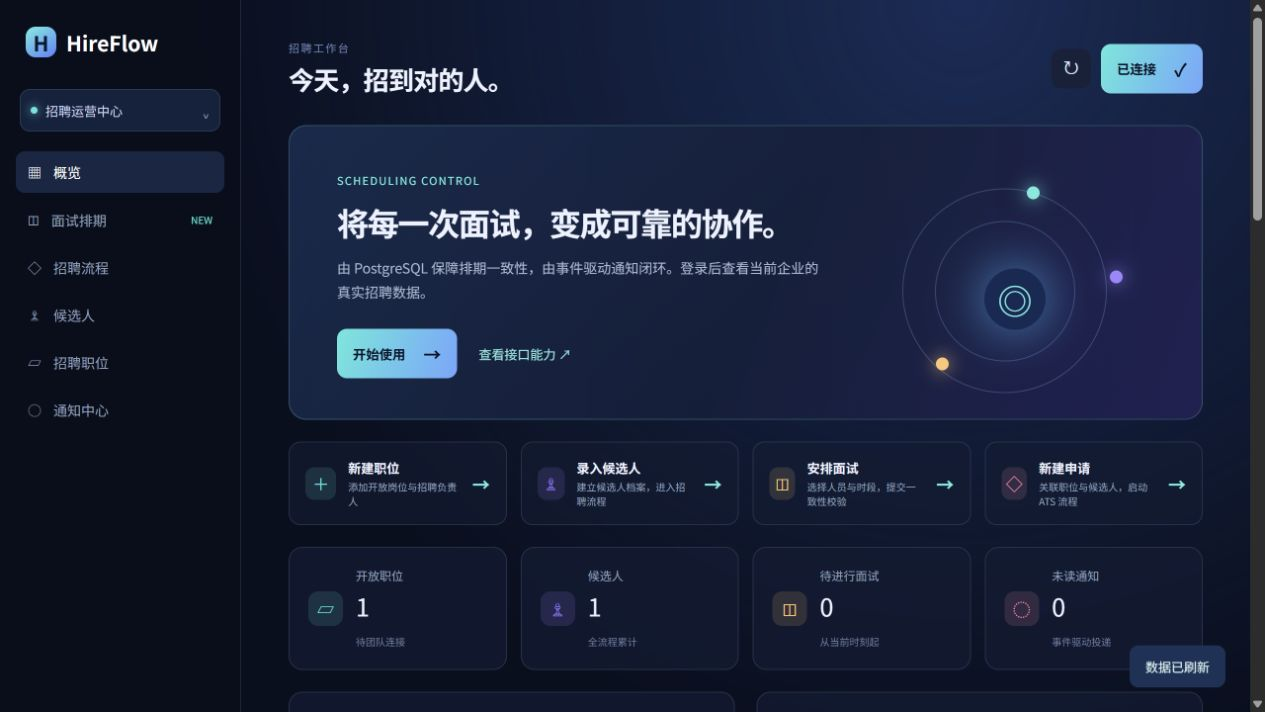
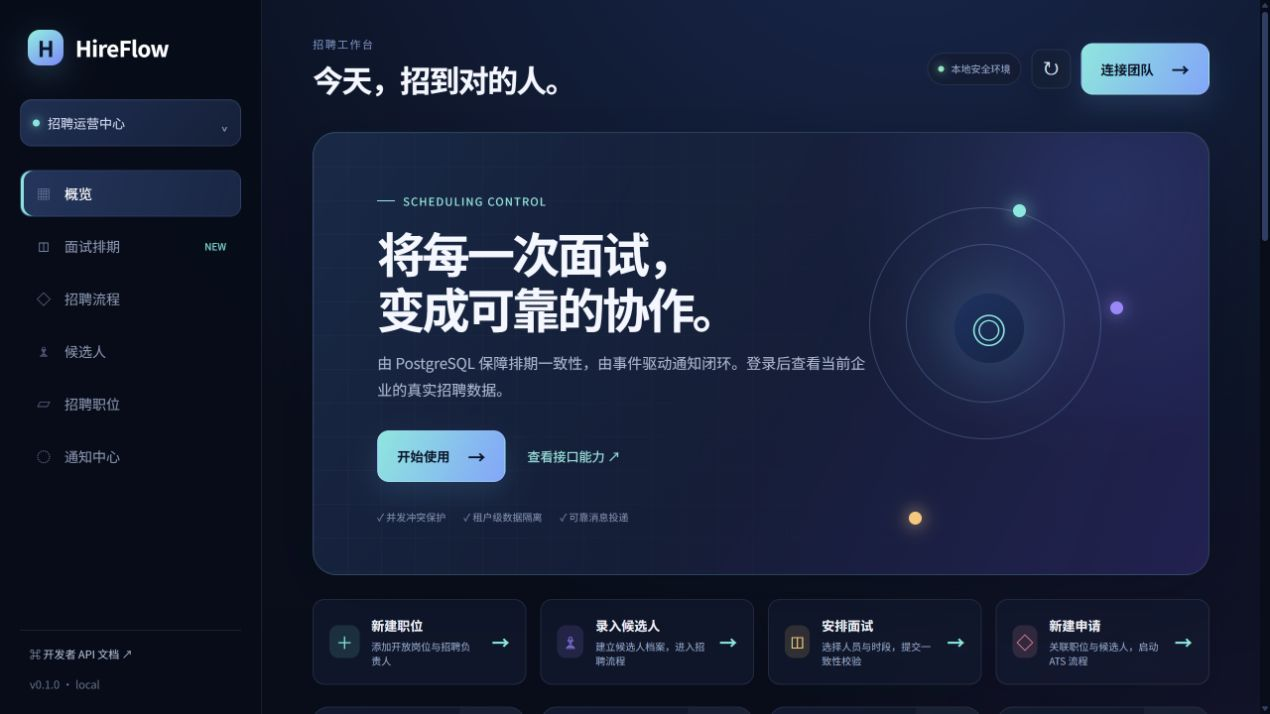
feat: refresh workbench visual design

diff --git a/src/hireflow/web/app.css b/src/hireflow/web/app.css
@@ -1,2 +1,58 @@
 @import url('https://fonts.googleapis.com/css2?family=DM+Mono:wght@400;500&family=Noto+Sans+SC:wght@400;500;600;700&display=swap');
 :root{--ink:#edf2ff;--muted:#92a0bf;--line:rgba(151,170,213,.16);--canvas:#090f1f;--panel:#101a31;--panel-2:#0d1629;--cyan:#45e5dc;--violet:#9d82ff;--amber:#ffc56e;--rose:#ff93ad}*{box-sizing:border-box}body{margin:0;background:var(--canvas);color:var(--ink);font-family:"Noto Sans SC",system-ui,sans-serif}.app-shell{display:flex;min-height:100vh;background:radial-gradient(circle at 77% 0%,#172c58 0,transparent 30%),var(--canvas)}.sidebar{width:244px;padding:27px 16px 20px;border-right:1px solid var(--line);display:flex;flex-direction:column;background:rgba(8,14,28,.72)}.brand{display:flex;align-items:center;gap:10px;color:#fff;text-decoration:none;font-size:21px;font-weight:700;padding:0 10px 32px}.brand-mark{display:grid;place-items:center;width:31px;height:31px;background:linear-gradient(145deg,#65efe1,#5d80ff);color:#0a1530;border-radius:10px;font-family:"DM Mono"}.workspace{display:flex;align-items:center;gap:8px;margin:0 4px 20px;padding:11px 10px;background:#13213d;border:1px solid var(--line);border-radius:10px;color:#c8d4ee;font-size:13px}.pulse{width:7px;height:7px;background:var(--cyan);border-radius:50%;box-shadow:0 0 10px var(--cyan)}.chevron{margin-left:auto;color:var(--muted)}nav{display:grid;gap:6px}.nav-item{display:flex;align-items:center;gap:12px;padding:11px 12px;color:#91a0bf;text-decoration:none;border-radius:9px;font-size:14px}.nav-item:hover,.nav-item.active{color:#fff;background:#172644}.nav-item b{margin-left:auto;font:10px "DM Mono";color:#63ebdf}.sidebar-foot{margin-top:auto;display:grid;gap:14px;padding:15px 10px 0;color:#667492;font-size:11px;border-top:1px solid var(--line)}.sidebar-foot a{color:#aab9d5;text-decoration:none}.main{width:min(1240px,calc(100% - 244px));padding:40px 48px 56px;margin:0 auto}.topbar{display:flex;align-items:center;justify-content:space-between;margin-bottom:28px}.eyebrow{margin:0 0 5px;font:11px "DM Mono";letter-spacing:.13em;color:#6f83ad}.topbar h1{font-size:26px;margin:0;letter-spacing:-.03em}.top-actions{display:flex;align-items:center;gap:10px}.icon-button,.primary-button{border:0;cursor:pointer}.icon-button{display:grid;place-items:center;width:40px;height:40px;border-radius:10px;background:#15213a;color:#dbe6fd;font-size:20px}.primary-button{display:inline-flex;align-items:center;justify-content:center;gap:18px;padding:12px 16px;border-radius:10px;background:linear-gradient(110deg,#54e9dc,#71a7ff);color:#08142a;font-weight:700;font-family:inherit}.primary-button span{font-size:18px}.hero-card{position:relative;overflow:hidden;display:flex;justify-content:space-between;min-height:268px;padding:41px 48px;margin-bottom:22px;border:1px solid rgba(101,230,223,.24);border-radius:18px;background:linear-gradient(120deg,#152a4c,#101a34 53%,#1a1745)}.hero-card:after{content:"";position:absolute;inset:0;background:linear-gradient(90deg,transparent,rgba(111,154,255,.08));pointer-events:none}.hero-copy{position:relative;z-index:1;max-width:580px}.tag{font:11px "DM Mono";letter-spacing:.12em;color:#63eee2}.hero-card h2{font-size:32px;line-height:1.25;letter-spacing:-.04em;margin:13px 0}.hero-card p{max-width:500px;color:#a9b7d2;line-height:1.75;font-size:14px}.hero-actions{display:flex;align-items:center;gap:22px;margin-top:25px}.text-link,.panel-link{color:#83e9df;text-decoration:none;font-size:13px}.orbit{position:relative;width:230px;margin-right:25px;flex:none}.orbit:before,.orbit:after{content:"";position:absolute;border:1px solid rgba(141,192,255,.25);border-radius:50%}.orbit:before{width:205px;height:205px;top:22px}.orbit:after{width:140px;height:140px;top:55px;left:33px}.orbit-core{position:absolute;z-index:1;top:103px;left:83px;width:62px;height:62px;display:grid;place-items:center;border-radius:50%;font-size:35px;color:#6cf0e5;background:#142a55;box-shadow:0 0 50px #3a91cc}.satellite{position:absolute;z-index:2;width:13px;height:13px;border-radius:50%;box-shadow:0 0 18px currentColor}.one{top:20px;left:126px;background:#69ebdf;color:#69ebdf}.two{top:105px;right:7px;background:#9f86ff;color:#9f86ff}.three{bottom:8px;left:34px;background:#ffc673;color:#ffc673}.metrics{display:grid;grid-template-columns:repeat(4,1fr);gap:14px;margin-bottom:22px}.metric-card,.panel{border:1px solid var(--line);background:rgba(17,27,51,.79);border-radius:14px}.metric-card{display:flex;gap:13px;align-items:center;padding:19px}.metric-icon{display:grid;place-items:center;width:35px;height:35px;border-radius:10px;font-size:18px}.cyan{background:rgba(67,229,220,.13);color:var(--cyan)}.violet{background:rgba(158,130,255,.14);color:var(--violet)}.amber{background:rgba(255,197,110,.14);color:var(--amber)}.rose{background:rgba(255,147,173,.14);color:var(--rose)}.metric-card p{margin:0;color:var(--muted);font-size:12px}.metric-card strong{display:block;font:25px "DM Mono";margin:4px 0}.metric-card small{color:#6e7d9d;font-size:10px}.content-grid{display:grid;grid-template-columns:1.45fr 1fr;gap:22px}.panel{padding:24px}.panel-head{display:flex;justify-content:space-between;align-items:flex-start;border-bottom:1px solid var(--line);padding-bottom:16px}.panel h3{margin:0;font-size:17px}.live-dot,.status-ok{font-size:11px;color:#72f0c4}.live-dot:before{content:"";display:inline-block;width:6px;height:6px;margin-right:5px;background:#72f0c4;border-radius:50%;box-shadow:0 0 8px #72f0c4}.empty-state{display:grid;place-items:center;min-height:200px;color:#7081a6;text-align:center}.empty-state span{font-size:30px}.empty-state p{font-size:13px}.interview-row{display:grid;grid-template-columns:72px 1fr auto;gap:14px;align-items:center;padding:17px 0;border-bottom:1px solid var(--line)}.interview-time{font:12px "DM Mono";color:#8feae2}.interview-main strong{font-size:14px}.interview-main p{font-size:12px;color:var(--muted);margin:4px 0 0}.status-pill{font-size:10px;padding:5px 8px;border-radius:20px;background:rgba(67,229,220,.12);color:#70eee4}.guard{display:grid;grid-template-columns:30px 1fr 20px;gap:10px;padding:17px 0;border-bottom:1px solid var(--line)}.guard-number{font:11px "DM Mono";color:#6e82ac}.guard strong{font-size:13px}.guard p{margin:5px 0 0;font-size:11px;color:var(--muted);line-height:1.5}.guard-check{color:#77efc3}.panel-link{display:block;margin-top:18px}dialog{border:0;padding:0;border-radius:18px;background:transparent;color:var(--ink)}dialog::backdrop{background:rgba(3,7,16,.74);backdrop-filter:blur(8px)}.auth-card{position:relative;width:min(470px,calc(100vw - 32px));padding:35px;background:#101b32;border:1px solid rgba(129,160,220,.3);border-radius:18px;box-shadow:0 30px 90px #020611}.auth-card h2{margin:5px 0 24px;font-size:24px}.close{position:absolute;right:15px;top:13px;border:0;background:transparent;color:#9aabc9;font-size:27px;cursor:pointer}.tabs{display:flex;gap:20px;border-bottom:1px solid var(--line);margin-bottom:20px}.tab{padding:10px 0;color:#8494b5;background:transparent;border:0;font:13px inherit;cursor:pointer}.tab.active{color:#7bece2;border-bottom:2px solid #7bece2}.form-view{display:grid;gap:14px}.hidden{display:none}label{display:grid;gap:7px;color:#b8c6e0;font-size:12px}input{width:100%;padding:12px;border:1px solid #2d3d5e;border-radius:8px;background:#0b1427;color:#eff5ff;font:14px inherit;outline:none}input:focus{border-color:#64e8de;box-shadow:0 0 0 3px rgba(84,233,220,.1)}.field-row{display:grid;grid-template-columns:1fr 1fr;gap:12px}.wide{width:100%;margin-top:5px}.form-hint{font-size:11px;line-height:1.5;color:#7687a7;margin:0}#error{display:none;margin-bottom:12px;padding:10px;border-radius:7px;color:#ffadb9;background:rgba(255,93,120,.1);font-size:12px}#toast{position:fixed;right:25px;bottom:25px;opacity:0;transform:translateY(8px);padding:12px 16px;border-radius:9px;background:#183358;color:#d9f7f3;font-size:13px;transition:.2s;pointer-events:none}#toast.show{opacity:1;transform:none}@media(max-width:900px){.sidebar{width:68px;padding:22px 9px}.brand{padding:0 9px 30px}.brand>span:last-child,.workspace span:not(.pulse),.nav-item{font-size:0}.nav-item{justify-content:center}.nav-item span{font-size:18px}.nav-item b,.sidebar-foot{display:none}.main{width:calc(100% - 68px);padding:28px 24px}.metrics{grid-template-columns:repeat(2,1fr)}.hero-card{padding:32px}.orbit{display:none}.content-grid{grid-template-columns:1fr}}@media(max-width:560px){.main{padding:24px 16px}.topbar h1{font-size:21px}.hero-card h2{font-size:25px}.hero-card{min-height:0;padding:27px}.metrics{grid-template-columns:1fr}.top-actions .icon-button{display:none}.content-grid{gap:14px}.field-row{grid-template-columns:1fr}}
+
+/* 2026 visual refresh: quieter surfaces, stronger hierarchy, and accessible motion. */
+:root{--ink:#f4f7ff;--muted:#9aa8c4;--line:rgba(145,166,211,.14);--canvas:#070d1a;--panel:#101a2d;--panel-2:#0b1425;--cyan:#69e7dc;--violet:#a58cff;--amber:#ffc873;--rose:#ff91ac;--shadow:0 18px 60px rgba(1,5,15,.22)}
+html{scroll-behavior:smooth;color-scheme:dark}
+body{min-width:320px;line-height:1.5;background:var(--canvas);font-family:"Noto Sans SC","PingFang SC","Microsoft YaHei",system-ui,sans-serif;-webkit-font-smoothing:antialiased}
+button,a,input,select,textarea{transition:border-color .2s ease,background .2s ease,color .2s ease,box-shadow .2s ease,transform .2s ease}
+button:focus-visible,a:focus-visible,input:focus-visible,select:focus-visible,textarea:focus-visible{outline:2px solid var(--cyan);outline-offset:3px}
+.app-shell{background:radial-gradient(circle at 72% -8%,rgba(45,91,177,.34),transparent 34%),radial-gradient(circle at 102% 42%,rgba(113,68,186,.14),transparent 30%),linear-gradient(180deg,#080f1e,#070c18 72%)}
+.sidebar{position:sticky;top:0;height:100vh;width:264px;flex:none;padding:30px 20px 22px;border-color:rgba(150,172,220,.12);background:rgba(6,12,25,.88);backdrop-filter:blur(20px)}
+.brand{gap:12px;padding:0 8px 34px;font-size:22px;letter-spacing:-.02em}
+.brand-mark{width:36px;height:36px;border-radius:12px;background:linear-gradient(145deg,#72eee2 5%,#7b91ff 92%);box-shadow:0 10px 30px rgba(79,166,226,.28)}
+.workspace{margin:0 0 24px;padding:13px 12px;border-radius:12px;background:linear-gradient(135deg,rgba(29,49,88,.94),rgba(20,34,63,.9));box-shadow:inset 0 1px rgba(255,255,255,.03)}
+.nav-item{min-height:44px;padding:12px 14px;border:1px solid transparent;color:#8998b7;border-radius:11px}
+.nav-item>span{display:grid;place-items:center;width:18px;color:#6f82a9;font-family:"DM Mono"}
+.nav-item:hover{color:#eaf2ff;border-color:rgba(119,224,218,.1);background:rgba(26,43,76,.58)}
+.nav-item.active{color:#fff;border-color:rgba(121,162,239,.12);background:linear-gradient(105deg,rgba(33,56,99,.95),rgba(25,44,79,.84));box-shadow:inset 3px 0 var(--cyan)}
+.sidebar-foot a:hover,.text-link:hover,.panel-link:hover{color:#b7fff8}
+.main{width:min(1460px,calc(100% - 264px));padding:36px clamp(28px,4vw,64px) 72px}
+.preview-notice{display:none;align-items:center;gap:12px;margin-bottom:20px;padding:12px 15px;border:1px solid rgba(255,200,115,.28);border-radius:12px;background:rgba(255,200,115,.08);color:#d9dfec;font-size:12px}
+.preview-notice-icon{display:grid;place-items:center;width:24px;height:24px;flex:none;border-radius:50%;background:rgba(255,200,115,.16);color:var(--amber);font:600 12px "DM Mono"}
+.preview-notice strong{display:block;color:#fff}.preview-notice a{color:var(--amber)}
+.file-preview .preview-notice{display:flex}
+.topbar{margin-bottom:30px}.topbar h1{font-size:clamp(25px,2.4vw,34px);font-weight:700;letter-spacing:-.045em}.topbar .eyebrow{color:#7890bc}
+.environment-chip{display:inline-flex;align-items:center;gap:7px;padding:8px 10px;border:1px solid var(--line);border-radius:999px;background:rgba(16,27,49,.72);color:#94a4c4;font-size:10px}
+.environment-chip i{width:6px;height:6px;border-radius:50%;background:#73e9bd;box-shadow:0 0 10px #73e9bd}
+.icon-button{border:1px solid var(--line);background:rgba(18,31,55,.88);box-shadow:0 10px 26px rgba(1,6,17,.18)}
+.icon-button:hover{color:var(--cyan);border-color:rgba(105,231,220,.3);transform:translateY(-1px)}
+.primary-button{min-height:44px;padding:12px 19px;border:1px solid rgba(255,255,255,.12);border-radius:12px;background:linear-gradient(115deg,#70e9df,#7aa7ff);box-shadow:0 12px 28px rgba(63,145,201,.2)}
+.primary-button:hover{transform:translateY(-2px);box-shadow:0 16px 34px rgba(63,145,201,.3)}
+.primary-button:active{transform:translateY(0)}
+.hero-card{min-height:330px;padding:50px clamp(34px,5vw,68px);margin-bottom:24px;border-radius:24px;border-color:rgba(109,214,218,.2);background:radial-gradient(circle at 88% 14%,rgba(78,104,210,.23),transparent 30%),linear-gradient(125deg,#142948 0%,#111b35 55%,#1b1947 100%);box-shadow:var(--shadow)}
+.hero-card:before{content:"";position:absolute;inset:0;background-image:linear-gradient(rgba(255,255,255,.018) 1px,transparent 1px),linear-gradient(90deg,rgba(255,255,255,.018) 1px,transparent 1px);background-size:34px 34px;mask-image:linear-gradient(90deg,#000,transparent 80%);pointer-events:none}
+.hero-card:after{background:linear-gradient(110deg,transparent 30%,rgba(130,146,255,.07))}
+.hero-copy{max-width:650px}.tag{display:inline-flex;align-items:center;gap:8px;color:#79eee4}.tag:before{content:"";width:18px;height:1px;background:currentColor}
+.hero-card h2{margin:16px 0 14px;font-size:clamp(34px,4vw,48px);line-height:1.16;letter-spacing:-.055em}.hero-card p{max-width:570px;margin:0;color:#aab7d0;font-size:15px;line-height:1.8}
+.hero-actions{margin-top:28px}.hero-proof{display:flex;flex-wrap:wrap;gap:8px 18px;margin-top:28px;color:#8092b4;font-size:10px}.hero-proof span{display:inline-flex;gap:5px}.hero-proof span::first-letter{color:var(--cyan)}
+.orbit{width:260px;margin-right:18px}.orbit:before{width:232px;height:232px;top:25px}.orbit:after{width:158px;height:158px;top:62px;left:37px}.orbit-core{top:112px;left:86px;width:70px;height:70px;background:linear-gradient(145deg,#183362,#12264b);box-shadow:0 0 70px rgba(77,175,220,.55)}
+.one{top:22px;left:145px}.two{top:120px;right:4px}.three{bottom:0;left:40px}
+.quick-actions{gap:16px;margin-bottom:24px}.quick-action{min-height:78px;padding:18px;border-radius:15px;background:linear-gradient(145deg,rgba(17,29,53,.9),rgba(13,24,44,.82));box-shadow:0 12px 34px rgba(1,6,17,.1)}
+.quick-action:hover{border-color:rgba(105,231,220,.34);background:linear-gradient(145deg,#152743,#11203a);box-shadow:0 18px 42px rgba(2,8,20,.22)}
+.quick-action strong{font-size:14px}.quick-action small{margin-top:2px;font-size:11px;line-height:1.45}.quick-icon{width:40px;height:40px;border-radius:12px}
+.metrics{gap:16px;margin-bottom:24px}.metric-card,.panel{border-color:var(--line);background:linear-gradient(145deg,rgba(17,28,51,.9),rgba(13,23,42,.86));box-shadow:0 14px 42px rgba(1,6,17,.1)}
+.metric-card{position:relative;overflow:hidden;min-height:112px;padding:22px;border-radius:16px}.metric-card:after{content:"";position:absolute;right:-25px;top:-38px;width:90px;height:90px;border-radius:50%;background:currentColor;opacity:.035}
+.metric-icon{width:40px;height:40px;border-radius:12px}.metric-card p{font-size:11px}.metric-card strong{margin:5px 0 3px;font-size:27px}.metric-card small{font-size:10px}
+.panel{border-radius:18px;padding:26px}.panel-head{padding-bottom:18px}.panel h3{font-size:18px;letter-spacing:-.02em}.record-grid,.content-grid{gap:24px;margin-bottom:24px}.content-grid{grid-template-columns:minmax(0,1.4fr) minmax(320px,.8fr)}
+.record-row,.interview-row,.notification-row{border-radius:10px;padding-left:10px;padding-right:10px}.record-row:hover,.interview-row:hover,.notification-row:hover{background:rgba(116,151,216,.055)}
+.guard{padding:18px 4px}.guard-check{display:grid;place-items:center;width:22px;height:22px;border-radius:50%;background:rgba(115,239,195,.08)}
+.empty-state{border-radius:13px;background:linear-gradient(180deg,rgba(6,14,29,.2),rgba(6,14,29,.05))}
+dialog::backdrop{background:rgba(2,6,15,.78);backdrop-filter:blur(12px)}.auth-card{border-radius:22px;background:linear-gradient(145deg,#111d35,#0d172a);box-shadow:0 36px 110px rgba(0,3,12,.72)}
+input,select,textarea{min-height:44px;border-radius:10px!important;background:rgba(7,15,30,.76)!important}.tabs{gap:24px}.tab{padding:12px 1px}
+#toast{right:28px;bottom:28px;padding:14px 18px;border:1px solid rgba(105,231,220,.18);border-radius:12px;background:rgba(20,52,84,.95);box-shadow:0 18px 50px rgba(1,5,14,.35);backdrop-filter:blur(12px)}
+*{scrollbar-width:thin;scrollbar-color:#2b4067 transparent}::-webkit-scrollbar{width:8px;height:8px}::-webkit-scrollbar-thumb{border-radius:20px;background:#2b4067}
+@media(prefers-reduced-motion:reduce){html{scroll-behavior:auto}*,*:before,*:after{transition:none!important;animation:none!important}}
+@media(max-width:1100px){.main{padding-left:28px;padding-right:28px}.environment-chip{display:none}.hero-card{min-height:300px}.orbit{transform:scale(.86);transform-origin:center right}.content-grid{grid-template-columns:1fr}}
+@media(max-width:860px){.app-shell{display:block}.sidebar{position:sticky;z-index:20;top:0;width:100%;height:auto;padding:11px 16px;flex-direction:row;align-items:center;border-right:0;border-bottom:1px solid var(--line)}.brand{flex:none;padding:0;font-size:17px}.brand-mark{width:32px;height:32px}.workspace,.sidebar-foot{display:none}.sidebar nav{display:flex;gap:4px;margin-left:auto;overflow-x:auto}.nav-item{min-height:38px;padding:9px;font-size:0;white-space:nowrap}.nav-item>span{font-size:16px}.nav-item b{display:none}.main{width:100%;padding:26px 20px 54px}.topbar{margin-bottom:22px}.hero-card{padding:36px}.orbit{display:none}.quick-actions{grid-template-columns:repeat(2,1fr)}.metrics{grid-template-columns:repeat(2,1fr)}}
+@media(max-width:600px){.main{padding:20px 14px 44px}.topbar{align-items:flex-start}.top-actions{gap:7px}.top-actions .icon-button{display:none}.primary-button{padding:10px 14px}.topbar h1{font-size:24px}.hero-card{min-height:0;padding:28px 24px;border-radius:19px}.hero-card h2{font-size:31px}.hero-card p{font-size:13px}.hero-proof{display:none}.hero-actions{align-items:flex-start;flex-direction:column;gap:14px}.quick-actions,.metrics{grid-template-columns:1fr}.quick-action{min-height:70px}.metric-card{min-height:96px}.panel{padding:20px;border-radius:15px}.record-grid,.content-grid{gap:14px}.environment-chip{display:none}.preview-notice{align-items:flex-start}.interview-row{grid-template-columns:1fr}.interview-time{margin-bottom:-5px}}

diff --git a/src/hireflow/web/index.html b/src/hireflow/web/index.html
@@ -5,8 +5,8 @@
     <meta name="viewport" content="width=device-width, initial-scale=1.0" />
     <meta name="theme-color" content="#0a1020" />
     <title>HireFlow · 招聘运营台</title>
-    <link rel="stylesheet" href="/assets/app.css" />
-    <link rel="stylesheet" href="/assets/operations.css" />
+    <link rel="stylesheet" href="./app.css" />
+    <link rel="stylesheet" href="./operations.css" />
   </head>
   <body>
     <div class="app-shell">
@@ -25,13 +25,17 @@
       </aside>
 
       <main class="main">
+        <div class="preview-notice" id="preview-notice" role="status">
+          <span class="preview-notice-icon">i</span>
+          <span><strong>当前为静态预览</strong>启动 Docker 后访问 <a href="http://localhost:8000">localhost:8000</a> 使用完整招聘流程。</span>
+        </div>
         <header class="topbar">
           <div><p class="eyebrow">招聘工作台</p><h1>今天，招到对的人。</h1></div>
-          <div class="top-actions"><button class="icon-button" id="refresh" title="刷新数据">↻</button><button class="primary-button" id="open-auth">连接团队 <span>→</span></button></div>
+          <div class="top-actions"><span class="environment-chip"><i></i>本地安全环境</span><button class="icon-button" id="refresh" title="刷新数据">↻</button><button class="primary-button" id="open-auth">连接团队 <span>→</span></button></div>
         </header>
 
         <section class="hero-card" id="overview">
-          <div class="hero-copy"><span class="tag">SCHEDULING CONTROL</span><h2>将每一次面试，变成可靠的协作。</h2><p>由 PostgreSQL 保障排期一致性，由事件驱动通知闭环。登录后查看当前企业的真实招聘数据。</p><div class="hero-actions"><button class="primary-button" id="hero-auth">开始使用 <span>→</span></button><a class="text-link" href="/docs" target="_blank">查看接口能力 ↗</a></div></div>
+          <div class="hero-copy"><span class="tag">SCHEDULING CONTROL</span><h2>将每一次面试，<br />变成可靠的协作。</h2><p>由 PostgreSQL 保障排期一致性，由事件驱动通知闭环。登录后查看当前企业的真实招聘数据。</p><div class="hero-actions"><button class="primary-button" id="hero-auth">开始使用 <span>→</span></button><a class="text-link" href="/docs" target="_blank">查看接口能力 ↗</a></div><div class="hero-proof"><span>✓ 并发冲突保护</span><span>✓ 租户级数据隔离</span><span>✓ 可靠消息投递</span></div></div>
           <div class="orbit" aria-hidden="true"><div class="orbit-core">◎</div><span class="satellite one"></span><span class="satellite two"></span><span class="satellite three"></span></div>
         </section>
 
@@ -76,11 +80,11 @@
       </main>
     </div>
 
-    <dialog id="auth-dialog"><form method="dialog" class="auth-card"><button class="close" value="cancel" aria-label="关闭">×</button><p class="eyebrow">WELCOME TO HIREFLOW</p><h2>连接你的招聘团队</h2><div class="tabs"><button type="button" class="tab active" data-tab="login">登录已有团队</button><button type="button" class="tab" data-tab="bootstrap">创建演示团队</button></div><div id="error" role="alert"></div>
+    <dialog id="auth-dialog"><form method="dialog" class="auth-card"><button class="close" value="cancel" formnovalidate aria-label="关闭">×</button><p class="eyebrow">WELCOME TO HIREFLOW</p><h2>连接你的招聘团队</h2><div class="tabs"><button type="button" class="tab active" data-tab="login">登录已有团队</button><button type="button" class="tab" data-tab="bootstrap">创建演示团队</button></div><div id="error" role="alert"></div>
       <div class="form-view" id="login-view"><label>企业 ID<input id="login-tenant" placeholder="UUID" required /></label><label>邮箱<input id="login-email" type="email" placeholder="name@company.com" required /></label><label>密码<input id="login-password" type="password" placeholder="至少 12 位" required /></label><button class="primary-button wide" type="button" id="login-submit">登录并进入工作台 <span>→</span></button><p class="form-hint">企业 ID 在初始化团队时生成；也可从演示脚本输出中获取。</p></div>
       <div class="form-view hidden" id="bootstrap-view"><label>企业名称<input id="tenant-name" placeholder="例如：Northstar Studio" required /></label><div class="field-row"><label>姓名<input id="owner-name" placeholder="招聘负责人" required /></label><label>邮箱<input id="owner-email" type="email" placeholder="owner@company.com" required /></label></div><label>设置密码<input id="owner-password" type="password" minlength="12" placeholder="至少 12 位" required /></label><button class="primary-button wide" type="button" id="bootstrap-submit">创建并进入工作台 <span>→</span></button><p class="form-hint">仅用于本地演示。Token 只保存在当前浏览器。</p></div>
     </form></dialog>
-    <dialog id="operation-dialog"><form method="dialog" class="operation-card"><button class="close" value="cancel" aria-label="关闭">×</button><p class="eyebrow" id="operation-kicker">QUICK ACTION</p><h2 id="operation-title">新建职位</h2><div id="operation-error" role="alert"></div>
+    <dialog id="operation-dialog"><form method="dialog" class="operation-card"><button class="close" value="cancel" formnovalidate aria-label="关闭">×</button><p class="eyebrow" id="operation-kicker">QUICK ACTION</p><h2 id="operation-title">新建职位</h2><div id="operation-error" role="alert"></div>
       <div class="operation-view" id="job-view"><label>职位名称<input id="job-title" placeholder="例如：后端开发工程师" /></label><label>招聘负责人（可选）<select id="job-manager"><option value="">暂不指定</option></select></label><button class="primary-button wide" type="button" id="job-submit">创建职位 <span>→</span></button></div>
       <div class="operation-view hidden" id="candidate-view"><div class="field-row"><label>姓名<input id="candidate-name" placeholder="候选人姓名" /></label><label>邮箱<input id="candidate-email" type="email" placeholder="candidate@email.com" /></label></div><label>手机号（可选）<input id="candidate-phone" placeholder="13800000000" /></label><button class="primary-button wide" type="button" id="candidate-submit">保存候选人 <span>→</span></button></div>
       <div class="operation-view hidden" id="schedule-view"><label>关联申请（可选）<select id="schedule-application"><option value="">不关联 ATS 申请</option></select></label><label>候选人<select id="schedule-candidate"></select></label><label>面试官<select id="schedule-interviewer"></select></label><label>关联职位<select id="schedule-job"></select></label><label>面试轮次（可选）<select id="schedule-round"><option value="">不指定轮次</option></select></label><div class="field-row"><label>可用开始<input id="availability-start" type="datetime-local" /></label><label>可用结束<input id="availability-end" type="datetime-local" /></label></div><button class="secondary-button" type="button" id="suggest-submit">保存双方可用时段并获取推荐</button><div class="field-row"><label>开始时间<input id="schedule-start" type="datetime-local" /></label><label>结束时间<input id="schedule-end" type="datetime-local" /></label></div><label>会议链接（可选）<input id="schedule-url" placeholder="https://meeting.example.com/..." /></label><div class="conflict-note">推荐时段不预占资源；提交时 PostgreSQL 排他约束进行最终冲突裁决，重叠排期返回 <code>409 Conflict</code>。</div><button class="primary-button wide" type="button" id="schedule-submit">确认安排面试 <span>→</span></button></div>
@@ -91,6 +95,6 @@
       <div class="operation-view hidden" id="offer-view"><label>Offer 阶段申请<select id="offer-application"></select></label><div class="field-row"><label>薪资金额（元）<input id="offer-salary" type="number" min="0" placeholder="30000" /></label><label>币种<input id="offer-currency" maxlength="3" value="CNY" /></label></div><div class="field-row"><label>入职日期<input id="offer-start-date" type="date" /></label><label>有效期至<input id="offer-expires" type="datetime-local" /></label></div><button class="primary-button wide" type="button" id="offer-submit">起草 Offer <span>→</span></button></div>
       <div class="operation-view hidden" id="offer-status-view"><label>Offer<select id="offer-status-offer"></select></label><label>目标状态<select id="offer-status-target"></select></label><div class="conflict-note">接受 Offer 后，关联申请自动进入 <code>hired</code>；所有变更写入审计与 Transactional Outbox。</div><button class="primary-button wide" type="button" id="offer-status-submit">确认更新 <span>→</span></button></div>
     </form></dialog>
-    <div id="toast" role="status"></div><script src="/assets/app.js"></script><script src="/assets/operations.js"></script>
+    <div id="toast" role="status"></div><script src="./app.js"></script><script src="./operations.js"></script>
   </body>
 </html>

diff --git a/src/hireflow/web/operations.css b/src/hireflow/web/operations.css
@@ -18,3 +18,13 @@ select{width:100%;padding:12px;border:1px solid #2d3d5e;border-radius:8px;backgr
 @media(max-width:1100px){.quick-actions{grid-template-columns:repeat(2,1fr)}}
 @media(max-width:900px){.quick-actions,.record-grid,.detail-grid{grid-template-columns:1fr}}
 @media(max-width:560px){.quick-actions{gap:10px}.quick-action{padding:13px}}
+
+.operation-card{width:min(560px,calc(100vw - 28px));padding:38px;border-radius:22px;background:linear-gradient(145deg,#111d35,#0c1629);box-shadow:0 36px 110px rgba(0,3,12,.72)}
+.operation-card h2{font-size:27px;letter-spacing:-.035em}.operation-view{gap:16px}
+.mini-action,.secondary-button{min-height:34px;border-radius:9px;background:rgba(77,218,207,.07)}
+.mini-action:hover,.secondary-button:hover{border-color:rgba(105,231,220,.5);transform:translateY(-1px)}
+.conflict-note{padding:13px 14px;border:1px solid rgba(255,200,115,.13);border-left:3px solid var(--amber);border-radius:9px;background:rgba(255,200,115,.06);font-size:12px}
+.record-panel{min-height:230px}.record-row{min-height:58px}.record-row strong{font-size:13px}.record-row small{margin-top:3px;font-size:11px}
+.record-action{border-radius:7px;padding:6px 8px}.record-action:hover{background:rgba(105,231,220,.08)}
+.detail-identity{padding:20px;border-radius:14px;background:linear-gradient(145deg,rgba(9,18,35,.72),rgba(10,20,38,.46))}.detail-avatar{width:46px;height:46px;border-radius:14px}.detail-field{padding:14px;border:1px solid rgba(145,166,211,.06);border-radius:12px}.timeline-item{padding-bottom:21px}.timeline-marker{box-shadow:0 0 14px rgba(105,231,220,.42)}
+@media(max-width:600px){.operation-card{padding:28px 20px}.operation-card h2{font-size:23px}.detail-fields{grid-template-columns:1fr}.record-actions{flex-wrap:wrap;justify-content:flex-end}}

diff --git a/src/hireflow/web/app.js b/src/hireflow/web/app.js
@@ -3,6 +3,13 @@ const dialog = document.querySelector("#auth-dialog");
 const errorBox = document.querySelector("#error");
 const toast = document.querySelector("#toast");
 const token = () => localStorage.getItem(tokenKey);
+const filePreview = window.location.protocol === "file:";
+
+if (filePreview) {
+  document.body.classList.add("file-preview");
+  document.querySelectorAll('a[href="/docs"]').forEach((link) => { link.href = "http://localhost:8000/docs"; });
+  document.querySelectorAll('a[href="/metrics"]').forEach((link) => { link.href = "http://localhost:8000/metrics"; });
+}
 
 function showToast(message) {
   toast.textContent = message;
@@ -56,7 +63,14 @@ async function loadOverview() {
   }
 }
 
-function openAuth() { clearError(); dialog.showModal(); }
+function openAuth() {
+  if (filePreview) {
+    showToast("静态预览不可连接后端，请访问 localhost:8000");
+    return;
+  }
+  clearError();
+  dialog.showModal();
+}
 document.querySelector("#open-auth").addEventListener("click", openAuth);
 document.querySelector("#hero-auth").addEventListener("click", openAuth);
 document.querySelector("#refresh").addEventListener("click", async () => { await loadOverview(); showToast("数据已刷新"); });

diff --git a/src/hireflow/api.py b/src/hireflow/api.py
@@ -262,6 +262,27 @@ async def workbench() -> FileResponse:
     return FileResponse(web_root / "index.html")
 
 
+@app.get("/app.css", include_in_schema=False)
+async def workbench_styles() -> FileResponse:
+    """Serve relative assets so index.html also works as a local static preview."""
+    return FileResponse(web_root / "app.css")
+
+
+@app.get("/operations.css", include_in_schema=False)
+async def workbench_operation_styles() -> FileResponse:
+    return FileResponse(web_root / "operations.css")
+
+
+@app.get("/app.js", include_in_schema=False)
+async def workbench_script() -> FileResponse:
+    return FileResponse(web_root / "app.js")
+
+
+@app.get("/operations.js", include_in_schema=False)
+async def workbench_operation_script() -> FileResponse:
+    return FileResponse(web_root / "operations.js")
+
+
 @app.get("/v1/dashboard/overview", response_model=DashboardOverviewRead)
 async def get_dashboard_overview(
     tenant_id: UUID = Depends(current_tenant), session: AsyncSession = Depends(tenant_session)
